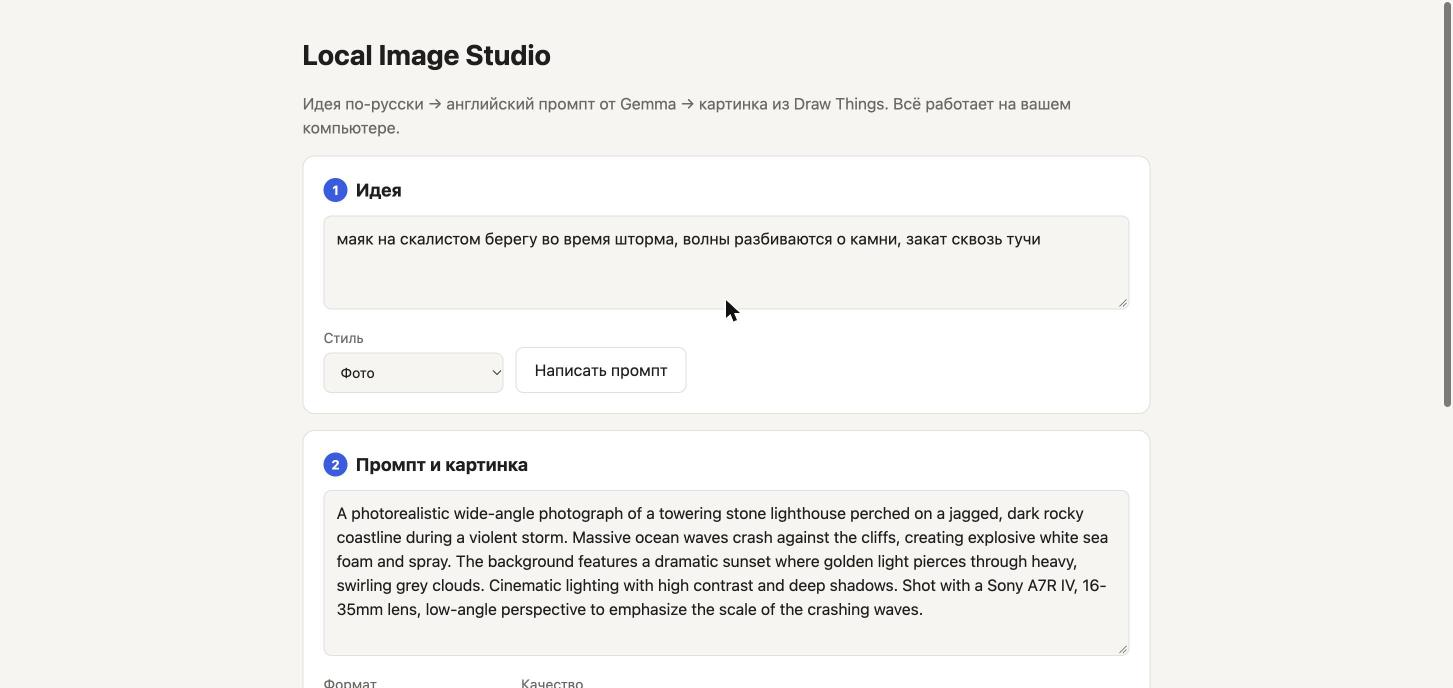
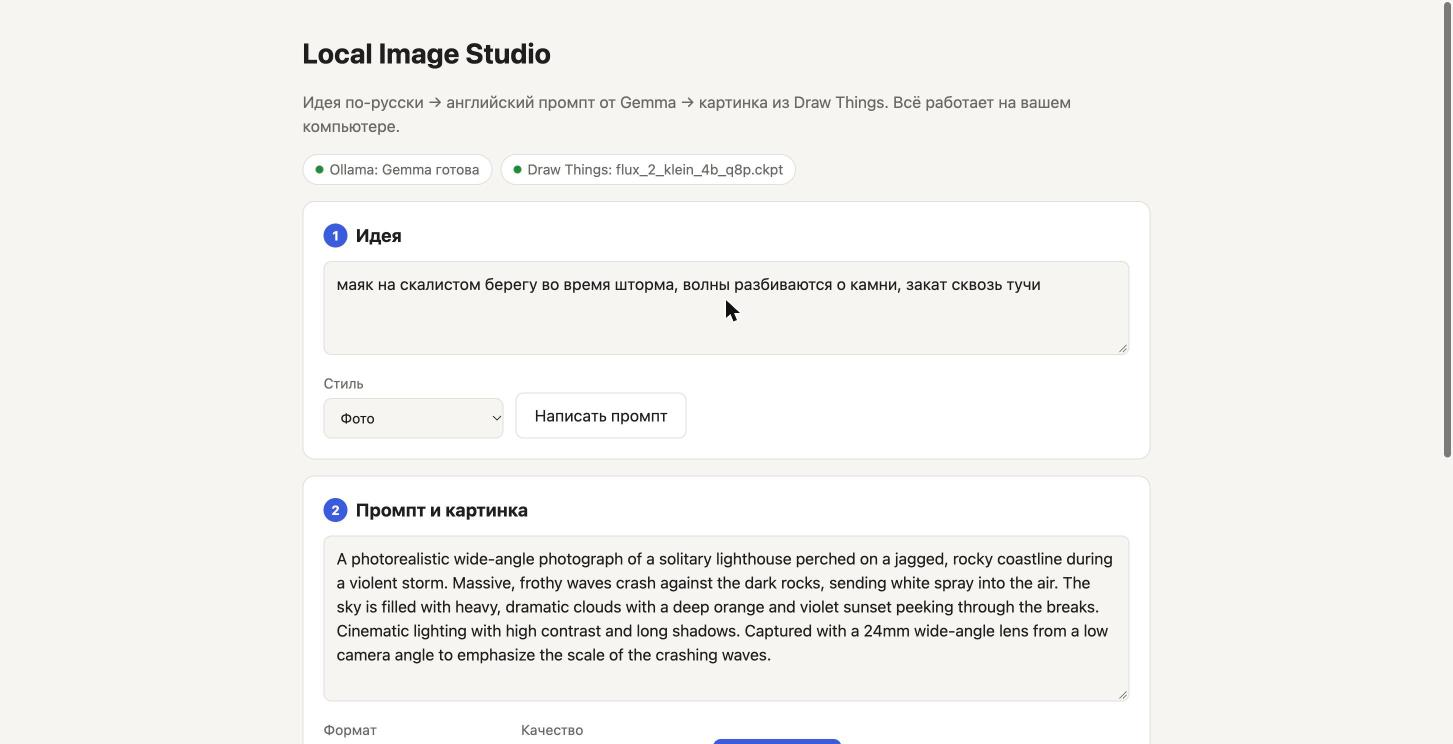
Строка состояния сервисов, сообщения об ошибках на русском, отключён кэш интерфейса
- /api/status и метки Ollama / Draw Things под заголовком с подсказкой, что включить
- ошибки Draw Things и Ollama переведены на русский
- Cache-Control: no-cache, чтобы браузер подхватывал обновлённый интерфейс
- README и скилл дополнены, первый скриншот переснят

diff --git a/static/app.js b/static/app.js
@@ -89,6 +89,44 @@ async function loadGallery() {
   }));
 }
 
+function showService(id, ok, text) {
+  $(id).textContent = text;
+  $(id).classList.toggle("ok", ok);
+  $(id).classList.toggle("off", !ok);
+}
+
+// Checks Ollama and Draw Things so a stopped service shows up before the user presses a button.
+async function checkServices() {
+  let status;
+  try {
+    status = await (await fetch("/api/status")).json();
+  } catch {
+    showService("ollama-status", false, "Студия не отвечает");
+    showService("drawthings-status", false, "Перезапустите python3 app.py");
+    return;
+  }
+  const hints = [];
+  if (status.ollama === "ok") {
+    showService("ollama-status", true, "Ollama: Gemma готова");
+  } else if (status.ollama === "no-model") {
+    showService("ollama-status", false, "Ollama: модель не скачана");
+    hints.push(`Скачайте модель: ollama pull ${status.ollama_model}`);
+  } else {
+    showService("ollama-status", false, "Ollama: не запущена");
+    hints.push("Запустите приложение Ollama.");
+  }
+  if (status.drawthings_model) {
+    showService("drawthings-status", true, `Draw Things: ${status.drawthings_model}`);
+  } else {
+    showService("drawthings-status", false, "Draw Things: API выключен");
+    hints.push("Откройте Draw Things и включите API-сервер: настройки → API Server, HTTP, порт 7860.");
+  }
+  $("services-hint").textContent = hints.join(" ");
+  $("services-hint").hidden = hints.length === 0;
+}
+
 $("write-prompt").addEventListener("click", writePrompt);
 $("generate").addEventListener("click", generate);
 loadGallery();
+checkServices();
+setInterval(checkServices, 10000);

diff --git a/static/style.css b/static/style.css
@@ -7,6 +7,7 @@
   --accent: #3b5bdb;
   --accent-text: #ffffff;
   --error: #c92a2a;
+  --ok: #2b8a3e;
 }
 
 @media (prefers-color-scheme: dark) {
@@ -19,6 +20,7 @@
     --accent: #6e8cf5;
     --accent-text: #0f1220;
     --error: #ff8787;
+    --ok: #69db7c;
   }
 }
 
@@ -36,6 +38,18 @@ header { padding-top: 32px; }
 h1 { margin: 0 0 4px; font-size: 28px; }
 h2 { font-size: 18px; margin: 0 0 12px; display: flex; align-items: center; gap: 8px; }
 .lead, .muted { color: var(--muted); }
+
+.services { display: flex; flex-wrap: wrap; gap: 8px; margin-top: 12px; }
+.service {
+  display: inline-flex; align-items: center; gap: 6px;
+  padding: 4px 12px; border-radius: 999px; font-size: 14px;
+  border: 1px solid var(--border); background: var(--card); color: var(--muted);
+}
+.service::before { content: ""; width: 8px; height: 8px; border-radius: 50%; background: var(--muted); }
+.service.ok::before { background: var(--ok); }
+.service.off { color: var(--error); }
+.service.off::before { background: var(--error); }
+.hint { margin: 8px 0 0; font-size: 14px; color: var(--error); }
 
 .card {
   background: var(--card);

diff --git a/static/index.html b/static/index.html
@@ -10,6 +10,11 @@
   <header>
     <h1>Local Image Studio</h1>
     <p class="lead">Идея по-русски → английский промпт от Gemma → картинка из Draw Things. Всё работает на вашем компьютере.</p>
+    <div class="services" aria-live="polite">
+      <span id="ollama-status" class="service">Ollama: проверяю…</span>
+      <span id="drawthings-status" class="service">Draw Things: проверяю…</span>
+    </div>
+    <p id="services-hint" class="hint" hidden></p>
   </header>
 
   <main>

diff --git a/drawthings.py b/drawthings.py
@@ -47,12 +47,21 @@ def _request(path, body=None, timeout=900):
             return json.load(response)
     except OSError as error:
         raise DrawThingsError(
-            f"Draw Things is not responding at {DRAW_THINGS_URL}: is the app running with the API server on?"
+            "Draw Things не отвечает. Откройте приложение и включите API-сервер: "
+            "настройки → API Server, протокол HTTP, порт 7860."
         ) from error
 
 
 def current_model():
     return _request("/", timeout=5).get("model")
+
+
+def status():
+    """Selected model name, or None when Draw Things or its API server is off."""
+    try:
+        return _request("/", timeout=2).get("model")
+    except DrawThingsError:
+        return None
 
 
 def generate(prompt, aspect, quality, out_path, seed=None):
@@ -64,7 +73,7 @@ def generate(prompt, aspect, quality, out_path, seed=None):
     result = _request("/sdapi/v1/txt2img", body)
     images = result.get("images") or []
     if not images:
-        raise DrawThingsError("Draw Things returned no image")
+        raise DrawThingsError("Draw Things не вернул картинку. Проверьте, что в приложении выбрана модель.")
     out_path.write_bytes(base64.b64decode(images[0]))
     if (body["width"], body["height"]) != (width, height):
         # sips ships with macOS (Draw Things is macOS-only anyway): crop to the exact size around the centre.

diff --git a/prompt_writer.py b/prompt_writer.py
@@ -40,8 +40,18 @@ def write_prompt(idea, style):
         with urllib.request.urlopen(request, timeout=300) as response:
             answer = json.load(response)
     except OSError as error:
-        raise PromptWriterError(f"Ollama is not responding at {OLLAMA_URL}: is it running?") from error
+        raise PromptWriterError("Ollama не отвечает. Запустите приложение Ollama или команду ollama serve.") from error
     prompt = (answer.get("response") or "").strip().strip('"')
     if not prompt:
-        raise PromptWriterError("The model returned an empty prompt")
+        raise PromptWriterError("Модель вернула пустой промпт. Попробуйте ещё раз или опишите идею подробнее.")
     return prompt
+
+
+def status():
+    """'ok', 'no-model' (Ollama runs but the model is not downloaded) or 'off'."""
+    try:
+        with urllib.request.urlopen(OLLAMA_URL + "/api/tags", timeout=2) as response:
+            models = {m["name"] for m in json.load(response).get("models", [])}
+    except OSError:
+        return "off"
+    return "ok" if OLLAMA_MODEL in models else "no-model"

diff --git a/app.py b/app.py
@@ -53,6 +53,11 @@ class StudioHandler(SimpleHTTPRequestHandler):
     def do_GET(self):
         if self.path == "/api/gallery":
             return self.send_json(200, load_gallery())
+        if self.path == "/api/status":
+            return self.send_json(200, {
+                "ollama": prompt_writer.status(), "ollama_model": prompt_writer.OLLAMA_MODEL,
+                "drawthings_model": drawthings.status(),
+            })
         if self.path.startswith("/outputs/"):
             path = OUTPUT_DIR / Path(unquote(self.path[len("/outputs/"):])).name
             if path.suffix == ".png" and path.exists():
@@ -106,6 +111,11 @@ class StudioHandler(SimpleHTTPRequestHandler):
             self.send_json(502, {"error": str(error)})
         finally:
             generation_lock.release()
+
+    def end_headers(self):
+        # Without this the browser keeps an old app.js / style.css after the studio is updated.
+        self.send_header("Cache-Control", "no-cache")
+        super().end_headers()
 
     def send_json(self, status, data):
         payload = json.dumps(data, ensure_ascii=False).encode()

diff --git a/.claude/skills/local-image-studio/SKILL.md b/.claude/skills/local-image-studio/SKILL.md
@@ -11,7 +11,7 @@ A local web app for macOS: idea in Russian → English prompt from Gemma (Ollama
 
 | File | What it does |
 |---|---|
-| `app.py` | HTTP server on 127.0.0.1:8000. Routes: `GET /` (static UI), `POST /api/prompt` `{idea, style}` → `{prompt, seconds}`, `POST /api/generate` `{prompt, idea, aspect, quality, seed?}` → gallery entry, `GET /api/gallery`, `GET /outputs/<file>.png`. One generation at a time (`generation_lock`, 409 when busy). |
+| `app.py` | HTTP server on 127.0.0.1:8000. Routes: `GET /` (static UI), `POST /api/prompt` `{idea, style}` → `{prompt, seconds}`, `POST /api/generate` `{prompt, idea, aspect, quality, seed?}` → gallery entry, `GET /api/gallery`, `GET /api/status` → `{ollama: ok/no-model/off, ollama_model, drawthings_model or null}`, `GET /outputs/<file>.png`. One generation at a time (`generation_lock`, 409 when busy). Every response carries `Cache-Control: no-cache` so the browser picks up UI changes. |
 | `prompt_writer.py` | Calls Ollama `POST /api/generate` with `OLLAMA_MODEL`. `STYLES` holds the three styles (photo, illustration, cover); `SYSTEM` is the instruction for the model. |
 | `drawthings.py` | `target_size(aspect, quality)` → exact size; `generate()` rounds sides up to multiples of 64, calls `POST /sdapi/v1/txt2img`, crops with `sips` to the exact size. `ASPECTS` and `QUALITY_MEGAPIXELS` define the options; Full HD = short side 1080. |
 | `static/` | `index.html`, `style.css` (light and dark theme via CSS variables), `app.js` (two steps, timer, gallery). UI text is in Russian. |
@@ -25,7 +25,7 @@ A local web app for macOS: idea in Russian → English prompt from Gemma (Ollama
    curl -s http://127.0.0.1:11434/api/version          # Ollama
    curl -s -o /dev/null -w "%{http_code}\n" http://127.0.0.1:7860/   # Draw Things, expect 200
    ```
-   Draw Things must be open with Settings → API Server → HTTP, port 7860. If Ollama does not answer, start the Ollama app or `ollama serve`.
+   Draw Things must be open with Settings → API Server → HTTP, port 7860; after the app restarts the API server may be off again, and the studio's status bar turns red. If Ollama does not answer, start the Ollama app or `ollama serve`. `curl -s http://127.0.0.1:8000/api/status` shows both at once.
 2. Start the server in the background: `python3 app.py`, then open http://127.0.0.1:8000.
 3. Stop it by its PID (`lsof -t -iTCP:8000 -sTCP:LISTEN | xargs kill`): on macOS the process shows as `Python`, so `pkill -f "python3 app.py"` can miss it. "Address already in use" means an old server is still running.
 
@@ -39,7 +39,12 @@ A local web app for macOS: idea in Russian → English prompt from Gemma (Ollama
    curl -s -X POST http://127.0.0.1:8000/api/prompt -d '{"idea":"кот на подоконнике","style":"photo"}'
    ```
    A real generation takes about 40 s at 1 MP and 90 s at Full HD on an M3 Pro; use quality `draft` for quick checks.
-4. For UI changes, open the page in a browser and go through both steps; check the light and dark theme.
+4. For UI changes, open the page in a browser and go through both steps; check the light and dark theme. A page opened before the no-cache header existed may need one hard reload (Cmd+Shift+R).
+5. To see the red status and error messages without stopping anything, run a second copy on another port with unreachable addresses:
+   ```bash
+   python3 -c 'import app, drawthings, prompt_writer; from http.server import ThreadingHTTPServer; drawthings.DRAW_THINGS_URL="http://127.0.0.1:7999"; prompt_writer.OLLAMA_URL="http://127.0.0.1:7998"; ThreadingHTTPServer(("127.0.0.1", 8001), app.StudioHandler).serve_forever()'
+   ```
+   Never test the error path with a real `POST /api/generate` against the main server: if Draw Things is up, it draws a real image into the gallery.
 
 ## Making changes
 

diff --git a/README.md b/README.md
@@ -42,7 +42,8 @@
 - три стиля промпта: фото, иллюстрация, обложка для поста;
 - пять форматов и три уровня качества, точный размер на выходе;
 - галерея с параметрами каждой генерации;
-- защита от двух генераций одновременно и понятные сообщения, если Ollama или Draw Things не запущены.
+- строка состояния: при открытии страницы и каждые 10 секунд студия проверяет, отвечают ли Ollama и Draw Things, и подсказывает, что включить;
+- защита от двух генераций одновременно и понятные сообщения об ошибках на русском.
 
 Дальше в планах:
 
@@ -76,7 +77,9 @@
    cd local-image-studio
    python3 app.py
    ```
-4. Откройте http://127.0.0.1:8000.
+4. Откройте http://127.0.0.1:8000. Под заголовком обе метки должны быть зелёными: «Ollama: Gemma готова» и «Draw Things: имя модели». Если метка красная, рядом будет подсказка, что включить.
+
+Draw Things не всегда сам включает API-сервер после перезапуска. Если метка Draw Things красная, проверьте настройку API Server в приложении.
 
 Другую модель Ollama или другие адреса можно указать в начале файлов `prompt_writer.py` и `drawthings.py`.
 
@@ -90,7 +93,7 @@
 ## Структура проекта
 
 ```
-app.py              веб-сервер и API: /api/prompt, /api/generate, /api/gallery
+app.py              веб-сервер и API: /api/prompt, /api/generate, /api/gallery, /api/status
 prompt_writer.py    идея → английский промпт через Ollama
 drawthings.py       размеры, генерация в Draw Things, обрезка
 static/             интерфейс: index.html, style.css, app.js
